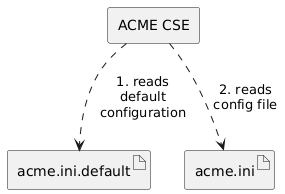
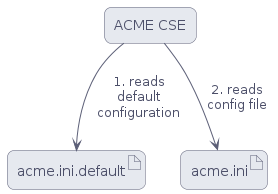
Added dark mode diagrams

diff --git a/docs/setup/Configuration-introduction.md b/docs/setup/Configuration-introduction.md
@@ -24,9 +24,11 @@ A default configuration file is provided with the file [acme.ini.default](https:
 It is sufficient to only add the settings to the configuration file that are different from the default settings. All other settings are read from the default config file *acme.ini.default*.
 
 <figure markdown="1">
-![Figure 1: Steps when reading a configuration from the *acme.ini* file](../images/acme.ini.png)
+![Figure 1: Steps when reading a configuration from the <i>acme.ini</i> file](../images/acme.ini.png#only-light){data-gallery="light"}
+![Figure 1: Steps when reading a configuration from the <i>acme.ini</i> file](../images/acme.ini-dark.png#only-dark){data-gallery="dark"}
 <figcaption>Figure 1: Steps when reading a configuration from the <i>acme.ini</i> file</figcaption>
 </figure>
+
 
 If the configuration file *acme.ini* could not be found at the specified location then an interactive procedure is started to generate a file with basic configuration settings. You can add further configurations if necessary by copying sections and settings from *acme.ini.default*.
 
@@ -38,9 +40,11 @@ If the configuration file *acme.ini* could not be found at the specified locatio
 The CSE can also be configured using [Apache Zookeeper](https://zookeeper.apache.org/){target=_new}. This allows for a more dynamic configuration and is especially useful in distributed environments. The configuration settings are stored in Zookeeper and can be accessed by the CSE at runtime.
 
 <figure markdown="1">
-![Figure 2: Steps when reading a configuration from Zookeeper](../images/zookeeper.ini.png)
-<figcaption>Figure 2: Steps when reading a configuration from Zookeeper</figcaption>
+![Figure 2: Steps when reading a configuration from Apache Zookeeper](../images/zookeeper.ini.png#only-light){data-gallery="light"}
+![Figure 2: Steps when reading a configuration from Apache Zookeeper](../images/zookeeper.ini-dark.png#only-dark){data-gallery="dark"}
+<figcaption>Figure 2: Steps when reading a configuration from Apache Zookeeper</figcaption>
 </figure>
+
 
 In this case, a local configuration file (e.g. *acme.ini*) is not used, and the CSE is started with the command line arguments [--config-zk-host](Running.md#command-line-arguments) and [--config-zk-root](Running.md#command-line-arguments) to specify the Zookeeper server and the root configuration node. The CSE will then read the configuration settings from Zookeeper. 
 
